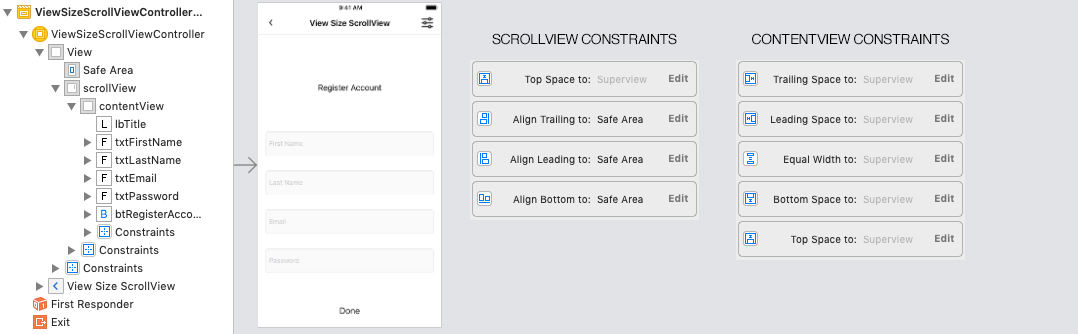
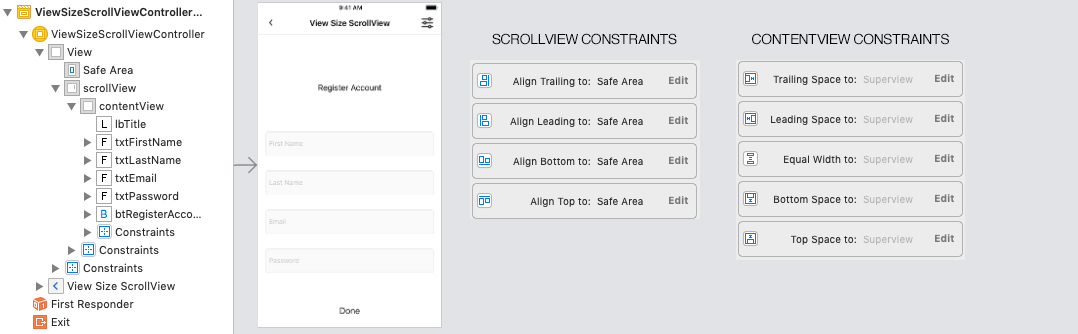
- updates to readme - changed createManualScrollView to createManual - added input navigator accessory controller buttons to protocol

Changed region(s): [[0.4286, 0.1796, 0.6429, 0.6587]]

diff --git a/Source/KeyboardAssistant.swift b/Source/KeyboardAssistant.swift
@@ -12,7 +12,7 @@ public protocol KeyboardAssistantDelegate: class
 
 public class KeyboardAssistant: NSObject
 {
-    public enum AssistantType { case autoScrollView; case manualScrollView; case manual; }
+    public enum AssistantType { case autoScrollView; case manual; }
     public enum RepositionConstraint { case viewTopToTopOfScreen; case viewBottomToTopOfKeyboard; }
     
     // MARK: - Properties
@@ -29,6 +29,7 @@ public class KeyboardAssistant: NSObject
     
     public private(set) weak var scrollView: UIScrollView?
     
+    public var invertBottomConstraintConstant: Bool = true
     public var animationDuration: TimeInterval = 0.3
     public var loggingEnabled: Bool = false
     
@@ -43,8 +44,6 @@ public class KeyboardAssistant: NSObject
         
         self.observer.delegate = self
         self.navigator.delegate = self
-        
-        // TODO: Is there a way to see if the bottom constraint of the scrollview is attached to the safe area for inverting bottomConstraint.constant when pushing up with keyboard?
     }
     
     static public func createAutoScrollView(inputNavigator: InputNavigator, positionScrollView: UIScrollView, positionConstraint: KeyboardAssistant.RepositionConstraint, positionOffset: CGFloat, bottomConstraint: NSLayoutConstraint, bottomConstraintLayoutView: UIView) -> KeyboardAssistant
@@ -61,13 +60,13 @@ public class KeyboardAssistant: NSObject
         return assistant
     }
     
-    static public func createManualScrollView(inputNavigator: InputNavigator, delegate: KeyboardAssistantDelegate, bottomConstraint: NSLayoutConstraint, bottomConstraintLayoutView: UIView) -> KeyboardAssistant
+    static public func createManual(inputNavigator: InputNavigator, delegate: KeyboardAssistantDelegate, bottomConstraint: NSLayoutConstraint, bottomConstraintLayoutView: UIView) -> KeyboardAssistant
     {
         let assistant: KeyboardAssistant = KeyboardAssistant(inputNavigator: inputNavigator)
         
         assistant.bottomConstraint = bottomConstraint
         assistant.bottomConstraintLayoutView = bottomConstraintLayoutView
-        assistant.type = .manualScrollView
+        assistant.type = .manual
         assistant.delegate = delegate
         
         return assistant
@@ -99,7 +98,16 @@ public class KeyboardAssistant: NSObject
         {
             // TODO: Sometimes height will not have to be inverted by -1.  Depends on how constraints are set.
             // If the scrollview bottom is attached to safe area bottom then it needs to be inverted by -1.  Otherwise no inversion.
-            bottomConstraint.constant = keyboardHeight * -1
+            // Is there a way to check for this?
+            
+            if (self.invertBottomConstraintConstant)
+            {
+                bottomConstraint.constant = keyboardHeight * -1
+            }
+            else
+            {
+                bottomConstraint.constant = keyboardHeight
+            }
             
             if (animated)
             {
@@ -159,12 +167,6 @@ public class KeyboardAssistant: NSObject
             if let scrollView = self.scrollView
             {
                 self.reposition(scrollView: scrollView, toInputItem: toInputItem, constraint: self.repositionConstraint, offset: self.repositionOffset)
-            }
-            
-        case .manualScrollView:
-            if let delegate = self.delegate
-            {
-                delegate.keyboardAssistantManuallyReposition(keyboardAssistant: self, toInputItem: toInputItem, keyboardHeight: self.observer.keyboardHeight)
             }
             
         case .manual:

diff --git a/Example/KeyboardAssistant-Example/Controllers/ViewSizeScrollViewController.swift b/Example/KeyboardAssistant-Example/Controllers/ViewSizeScrollViewController.swift
@@ -35,7 +35,7 @@ class ViewSizeScrollViewController: UIViewController
     {
         super.viewDidLoad()
         
-        let useAutoKeyboardAssistant: Bool = false
+        let useAutoKeyboardAssistant: Bool = true
         let allowToSetInputDelegates: Bool = true
         
         //let navigator: InputNavigator = InputNavigator.createWithDefaultController()
@@ -58,18 +58,18 @@ class ViewSizeScrollViewController: UIViewController
         if (useAutoKeyboardAssistant)
         {
             self.keyboardAssistant = KeyboardAssistant.createAutoScrollView(inputNavigator: navigator,
-                                                                                             positionScrollView: self.scrollView,
-                                                                                             positionConstraint: .viewBottomToTopOfKeyboard,
-                                                                                             positionOffset: 30,
-                                                                                             bottomConstraint: self.scrollViewBottomConstraint,
-                                                                                             bottomConstraintLayoutView: self.view)
+                                                                            positionScrollView: self.scrollView,
+                                                                            positionConstraint: .viewBottomToTopOfKeyboard,
+                                                                            positionOffset: 30,
+                                                                            bottomConstraint: self.scrollViewBottomConstraint,
+                                                                            bottomConstraintLayoutView: self.view)
         }
         else
         {
-            self.keyboardAssistant = KeyboardAssistant.createManualScrollView(inputNavigator: navigator,
-                                                                                     delegate: self,
-                                                                                     bottomConstraint: self.scrollViewBottomConstraint,
-                                                                                     bottomConstraintLayoutView: self.view)
+            self.keyboardAssistant = KeyboardAssistant.createManual(inputNavigator: navigator,
+                                                                              delegate: self,
+                                                                              bottomConstraint: self.scrollViewBottomConstraint,
+                                                                              bottomConstraintLayoutView: self.view)
         }
         
         self.keyboardAssistant.loggingEnabled = true
@@ -139,7 +139,7 @@ extension ViewSizeScrollViewController: KeyboardAssistantDelegate
     {
         let constraint: KeyboardAssistant.RepositionConstraint = .viewBottomToTopOfKeyboard
         let offset: CGFloat = 20
-                
+        
         if let nextInputItem = keyboardAssistant.navigator.getNextInputItem(inputItem: toInputItem, shouldLoop: false)
         {
             keyboardAssistant.reposition(scrollView: self.scrollView, toInputItem: nextInputItem, constraint: constraint, offset: offset)

diff --git a/Example/KeyboardAssistant-Example/Controllers/LongNestedScrollViewController.swift b/Example/KeyboardAssistant-Example/Controllers/LongNestedScrollViewController.swift
@@ -60,19 +60,21 @@ class LongNestedScrollViewController: UIViewController
         
         if (useAutoKeyboardAssistant)
         {
-            self.keyboardAssistant = KeyboardAssistant.createAutoScrollView(inputNavigator: navigator,
-                                                                                             positionScrollView: self.scrollView,
-                                                                                             positionConstraint: .viewBottomToTopOfKeyboard,
-                                                                                             positionOffset: 30,
-                                                                                             bottomConstraint: self.scrollViewBottomConstraint,
-                                                                                             bottomConstraintLayoutView: self.view)
+            self.keyboardAssistant = KeyboardAssistant.createAutoScrollView(
+                inputNavigator: navigator,
+                positionScrollView: self.scrollView,
+                positionConstraint: .viewBottomToTopOfKeyboard,
+                positionOffset: 30,
+                bottomConstraint: self.scrollViewBottomConstraint,
+                bottomConstraintLayoutView: self.view)
         }
         else
         {
-            self.keyboardAssistant = KeyboardAssistant.createManualScrollView(inputNavigator: navigator,
-                                                                                     delegate: self,
-                                                                                     bottomConstraint: self.scrollViewBottomConstraint,
-                                                                                     bottomConstraintLayoutView: self.view)
+            self.keyboardAssistant = KeyboardAssistant.createManual(
+                inputNavigator: navigator,
+                delegate: self,
+                bottomConstraint: self.scrollViewBottomConstraint,
+                bottomConstraintLayoutView: self.view)
         }
         
         self.keyboardAssistant.observer.loggingEnabled = true

diff --git a/Example/KeyboardAssistant-Example/Controllers/LongScrollViewController.swift b/Example/KeyboardAssistant-Example/Controllers/LongScrollViewController.swift
@@ -61,19 +61,21 @@ class LongScrollViewController: UIViewController
         
         if (useAutoKeyboardAssistant)
         {
-            self.keyboardAssistant = KeyboardAssistant.createAutoScrollView(inputNavigator: navigator,
-                                                                                             positionScrollView: self.scrollView,
-                                                                                             positionConstraint: .viewBottomToTopOfKeyboard,
-                                                                                             positionOffset: 30,
-                                                                                             bottomConstraint: self.scrollViewBottomConstraint,
-                                                                                             bottomConstraintLayoutView: self.view)
+            self.keyboardAssistant = KeyboardAssistant.createAutoScrollView(
+                inputNavigator: navigator,
+                positionScrollView: self.scrollView,
+                positionConstraint: .viewBottomToTopOfKeyboard,
+                positionOffset: 30,
+                bottomConstraint: self.scrollViewBottomConstraint,
+                bottomConstraintLayoutView: self.view)
         }
         else
         {
-            self.keyboardAssistant = KeyboardAssistant.createManualScrollView(inputNavigator: navigator,
-                                                                                     delegate: self,
-                                                                                     bottomConstraint: self.scrollViewBottomConstraint,
-                                                                                     bottomConstraintLayoutView: self.view)
+            self.keyboardAssistant = KeyboardAssistant.createManual(
+                inputNavigator: navigator,
+                delegate: self,
+                bottomConstraint: self.scrollViewBottomConstraint,
+                bottomConstraintLayoutView: self.view)
         }
         
         self.keyboardAssistant.observer.loggingEnabled = true

diff --git a/Source/DefaultNavigationView.swift b/Source/DefaultNavigationView.swift
@@ -10,7 +10,7 @@ public class DefaultNavigationView: UIView, InputNavigatorAccessoryController
     // MARK: - InputNavigatorAccessoryController protocol
     
     public var controllerView: UIView { return self }
-    public weak var delegate: InputNavigatorAccessoryControllerDelegate?
+    public weak var buttonDelegate: InputNavigatorAccessoryControllerDelegate?
     
     // MARK: - Properties
         
@@ -63,25 +63,25 @@ public class DefaultNavigationView: UIView, InputNavigatorAccessoryController
     
     @IBAction func handlePrev(button: UIButton)
     {
-        if let delegate = self.delegate
+        if let buttonDelegate = self.buttonDelegate
         {
-            delegate.inputNavigatorAccessoryControllerPreviousButtonTapped(accessoryController: self)
+            buttonDelegate.inputNavigatorAccessoryControllerPreviousButtonTapped(accessoryController: self)
         }
     }
     
     @IBAction func handleNext(button: UIButton)
     {
-        if let delegate = self.delegate
+        if let buttonDelegate = self.buttonDelegate
         {
-            delegate.inputNavigatorAccessoryControllerNextButtonTapped(accessoryController: self)
+            buttonDelegate.inputNavigatorAccessoryControllerNextButtonTapped(accessoryController: self)
         }
     }
     
     @IBAction func handleDone(button: UIButton)
     {        
-        if let delegate = self.delegate
+        if let buttonDelegate = self.buttonDelegate
         {
-            delegate.inputNavigatorAccessoryControllerDoneButtonTapped(accessoryController: self)
+            buttonDelegate.inputNavigatorAccessoryControllerDoneButtonTapped(accessoryController: self)
         }
     }
     

diff --git a/Source/InputNavigatorAccessoryController.swift b/Source/InputNavigatorAccessoryController.swift
@@ -15,5 +15,8 @@ public protocol InputNavigatorAccessoryControllerDelegate: class
 public protocol InputNavigatorAccessoryController
 {
     var controllerView: UIView { get }
-    var delegate: InputNavigatorAccessoryControllerDelegate? { get set }
+    var btPrev: UIButton! { get set }
+    var btNext: UIButton! { get set }
+    var btDone: UIButton! { get set }
+    var buttonDelegate: InputNavigatorAccessoryControllerDelegate? { get set }
 }

diff --git a/Source/InputNavigator.swift b/Source/InputNavigator.swift
@@ -56,7 +56,7 @@ public class InputNavigator: NSObject
         if var accessoryController = accessoryController
         {
             self.accessoryController = accessoryController
-            accessoryController.delegate = self
+            accessoryController.buttonDelegate = self
         }
         else if let customAccessoryView = customAccessoryView
         {

diff --git a/README.md b/README.md
@@ -201,7 +201,12 @@ Take a look at the below screenshot.  This is what we want to achieve.  Whenever
 
 ![alt text](ReadMeAssets/keyboard_manual_scrollview.jpg)
 
-In the code below, we will create an InputNavigator with both keyboard navigation and default controller navigation.
+In the code below we will:
+1. Create an InputNavigator with both keyboard navigation and default controller navigation.
+2. Add input items to navigate through.
+3. Create the manual scrollview assistant.
+4. Manage the keyboard assistant notifications, start and stop.
+
 ```swift
 import UIKit
 
@@ -237,7 +242,7 @@ class YourViewController: UIViewController
         self.txtEmail, 
         self.txtPassword])
         
-        self.keyboardAssistant = KeyboardAssistant.createManualScrollView(
+        self.keyboardAssistant = KeyboardAssistant.createManual(
         inputNavigator: navigator,
         delegate: self,
         bottomConstraint: self.scrollViewBottomConstraint,
@@ -260,6 +265,9 @@ class YourViewController: UIViewController
 }
 ```
 
+We use the KeyboardAssistantDelegate: keyboardAssistantManuallyReposition() to do all manual positioning.  If there is a nextInputItem then position to it.  Otherwise we are at the end so position to the sign up button. 
+
+We pass shouldLoop: false into getNextInputItem.  If true were passed, it would return the first input item when on the last input item.
 ```swift
 // MARK: - KeyboardAssistantDelegate
 
@@ -314,6 +322,74 @@ extension YourViewController: KeyboardAssistantDelegate
 ```
 
 #### Manual Assistant
+
+Create a manual assistant when you want to do your own positioning.
+
+In the code below we will:
+1. Create an InputNavigator with both keyboard navigation and default controller navigation.
+2. Add input items to navigate through.
+3. Create the manual assistant.
+4. Manage the keyboard assistant notifications, start and stop.
+5. Add the KeyboardAssistantDelegate: keyboardAssistantManuallyReposition() to perform manual positioning. 
+
+```swift
+import UIKit
+
+class YourViewController: UIViewController
+{
+    // MARK: - Properties
+
+    private var keyboardAssistant: KeyboardAssistant!
+
+    // MARK: - Outlets
+
+    @IBOutlet weak var txtFirstName: UITextField!
+    @IBOutlet weak var txtLastName: UITextField!
+    @IBOutlet weak var txtEmail: UITextField!
+    @IBOutlet weak var txtPassword: UITextField!
+    @IBOutlet weak var btRegisterAccount: UIButton!
+
+    // MARK: - Life Cycle
+
+    override func viewDidLoad()
+    {
+        super.viewDidLoad()
+
+        let navigator: InputNavigator = InputNavigator.createWithKeyboardNavigationAndDefaultController(shouldSetTextFieldDelegates: true)
+        navigator.addInputItems(inputItems: [
+        self.txtFirstName, 
+        self.txtLastName, 
+        self.txtEmail, 
+        self.txtPassword])
+        
+        self.keyboardAssistant = KeyboardAssistant.createManual(inputNavigator: navigator, delegate: self)
+    }
+
+    override func viewWillAppear(_ animated: Bool)
+    {
+        super.viewWillAppear(animated)
+
+        self.keyboardAssistant.start()
+    }
+
+    override func viewWillDisappear(_ animated: Bool)
+    {
+        super.viewWillAppear(animated)
+
+        self.keyboardAssistant.stop()
+    }
+}
+
+// MARK: - KeyboardAssistantDelegate
+
+extension YourViewController: KeyboardAssistantDelegate
+{
+    func keyboardAssistantManuallyReposition(keyboardAssistant: KeyboardAssistant, toInputItem: UIView, keyboardHeight: CGFloat)
+    {
+        // Do your manual positioning here.
+    }
+}
+```
 
 #### How To Use InputNavigator
 
@@ -446,9 +522,13 @@ For Keyboard positioning, I prefer to use the scrollview approach.  There are a 
 2. It's much easier to manage than say a tableview.  TableViews are great, but when collecting input from users they can become a pain to manage.  This is because as you scroll through a tableview, cells are getting recycled.  This adds extra management to collect input and extra management to navigate input.
 3. I end up having to use a scrollview on most my viewcontrollers anyways to handle shorter device sizes.
 
+Before you begin structuring your scrollview, make sure that your storyboard is using Safe Area Layout Guides. 
+
+![alt text](ReadMeAssets/scrollview_structure_safe_area_guides_large.jpg)
+
 Here is how you will need to structure your viewcontroller view hier-archy.  UIView [root / UIViewController.view]  >  UIScrollView [scrollView]  >  UIView [contentView].
 
-UIScrollView should set all edge constraints to the UIView [root / UIViewController.view].
+UIScrollView should set all edge constraints to the safe area. 
 UIView [contentView] should set all edge constraints to the UIScrollView and also set equal widths to UIScrollView.
 
 That's it.  Then all your custom UI goes inside the UIView [contentView].  
